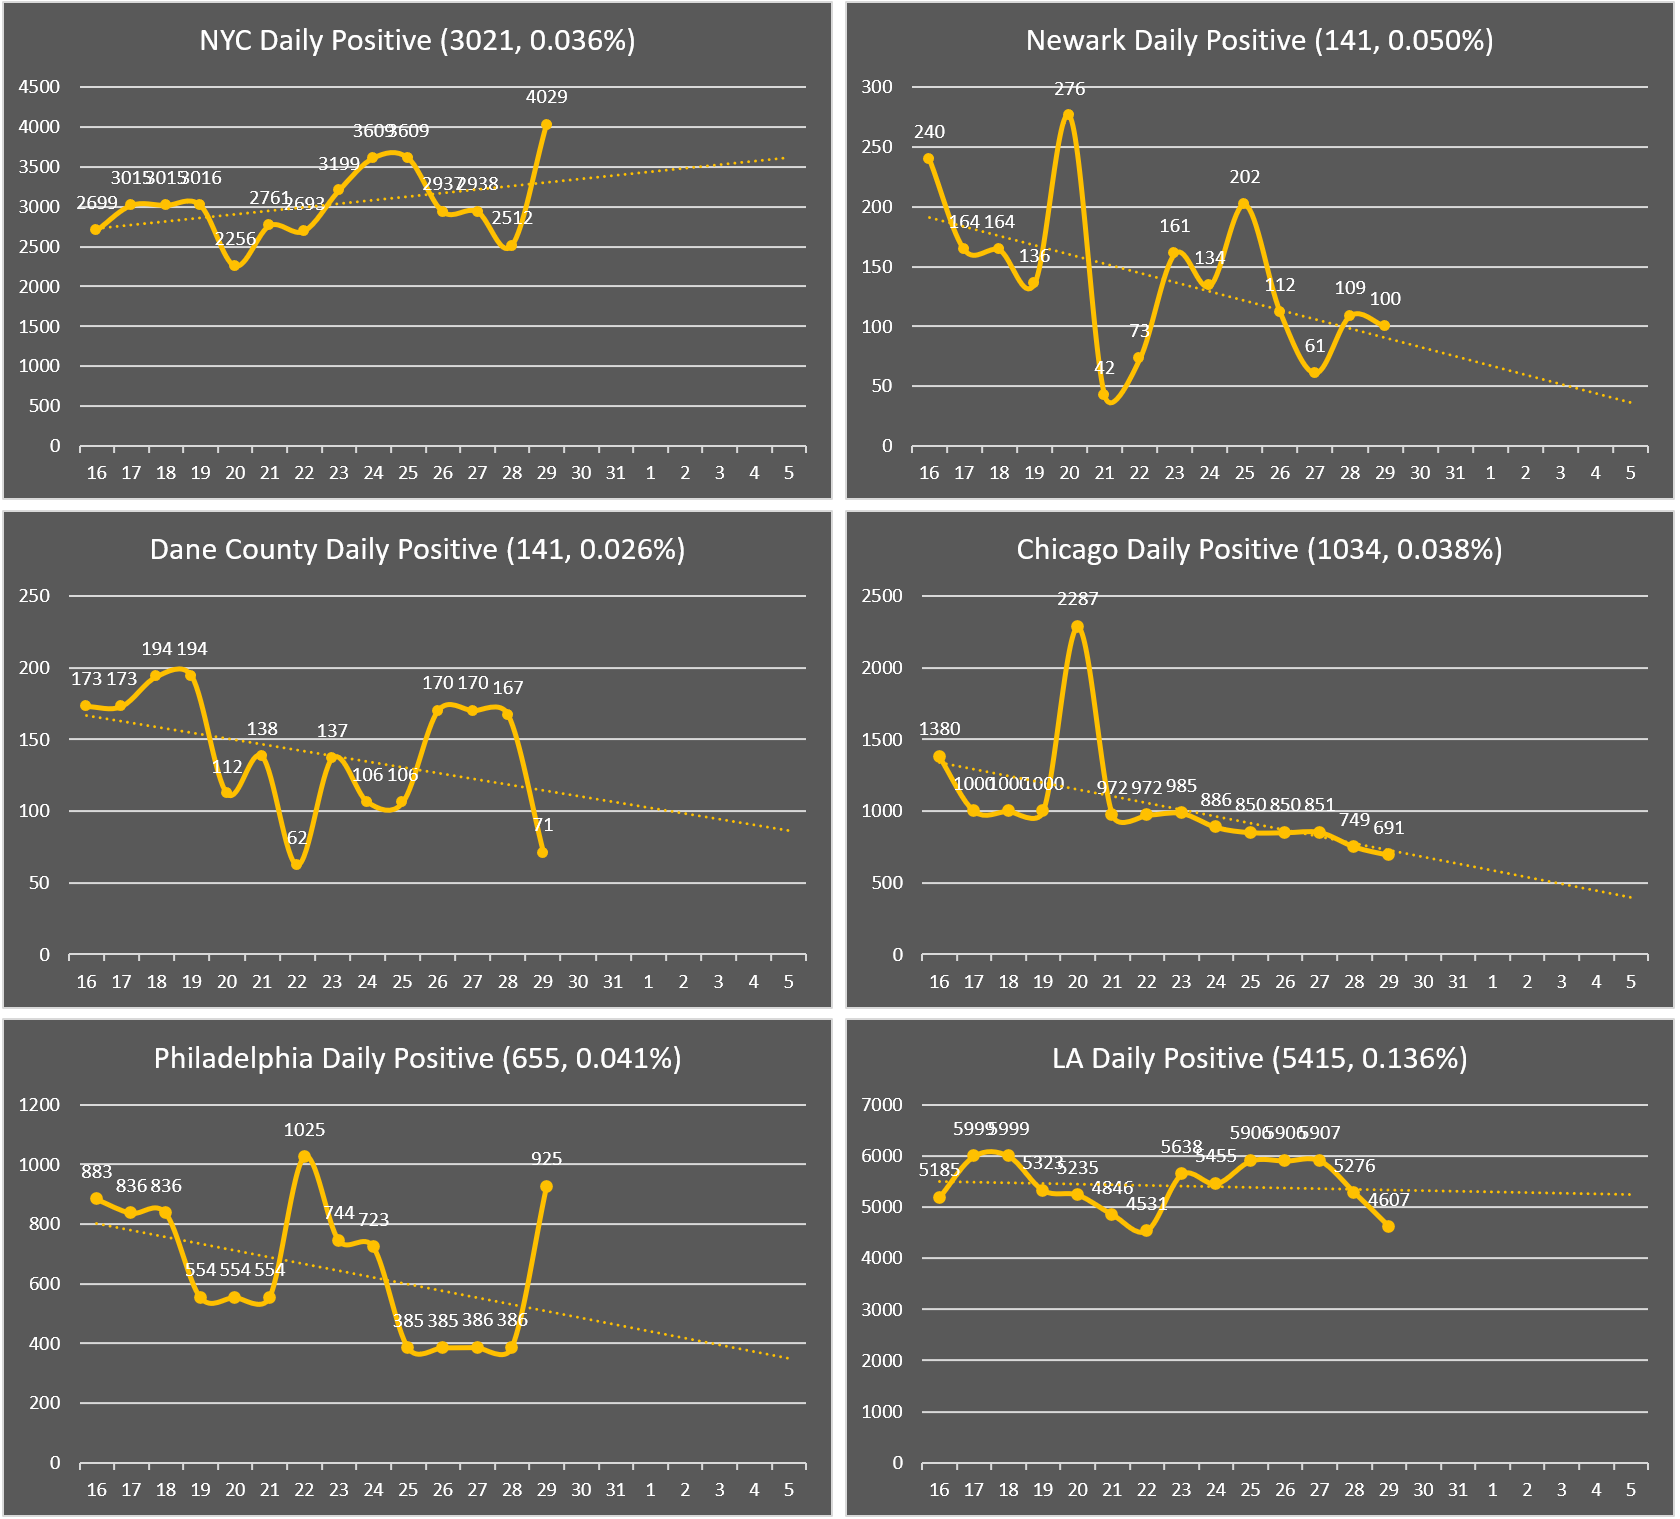
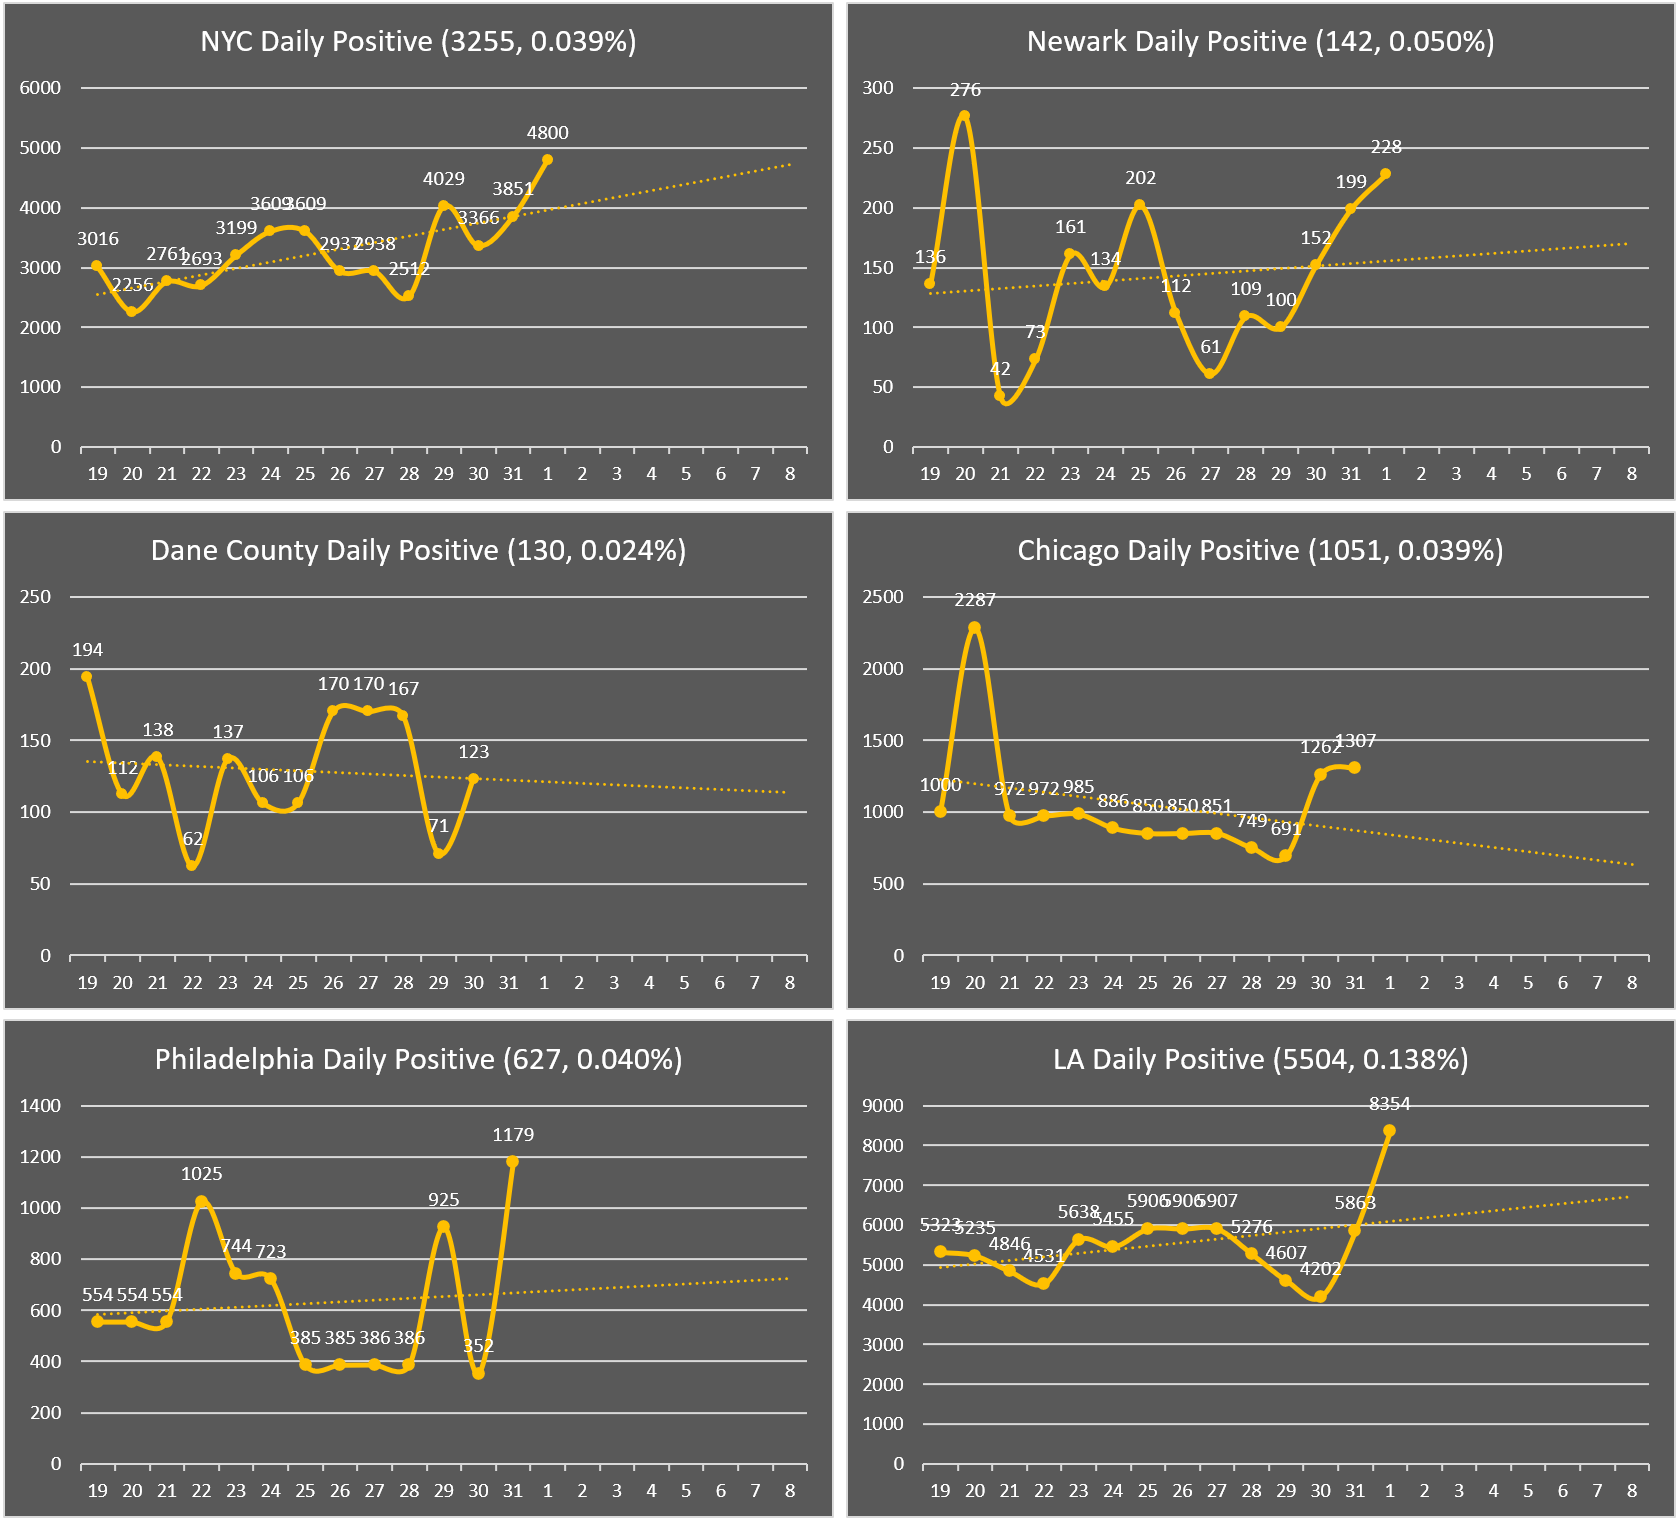
update 1/1 status

diff --git a/index.html b/index.html
@@ -19,7 +19,7 @@
 
 <body class="container-fluid">
 	<h1> CoronaV for Friends</h1>
-	<h2> Data updated at Dec 29 2020 EST 21:00</h2>
+	<h2> Data updated at Jan 01 2021 EST 21:20</h2>
 	<hr>
 	<main>
 		<div class="row">
